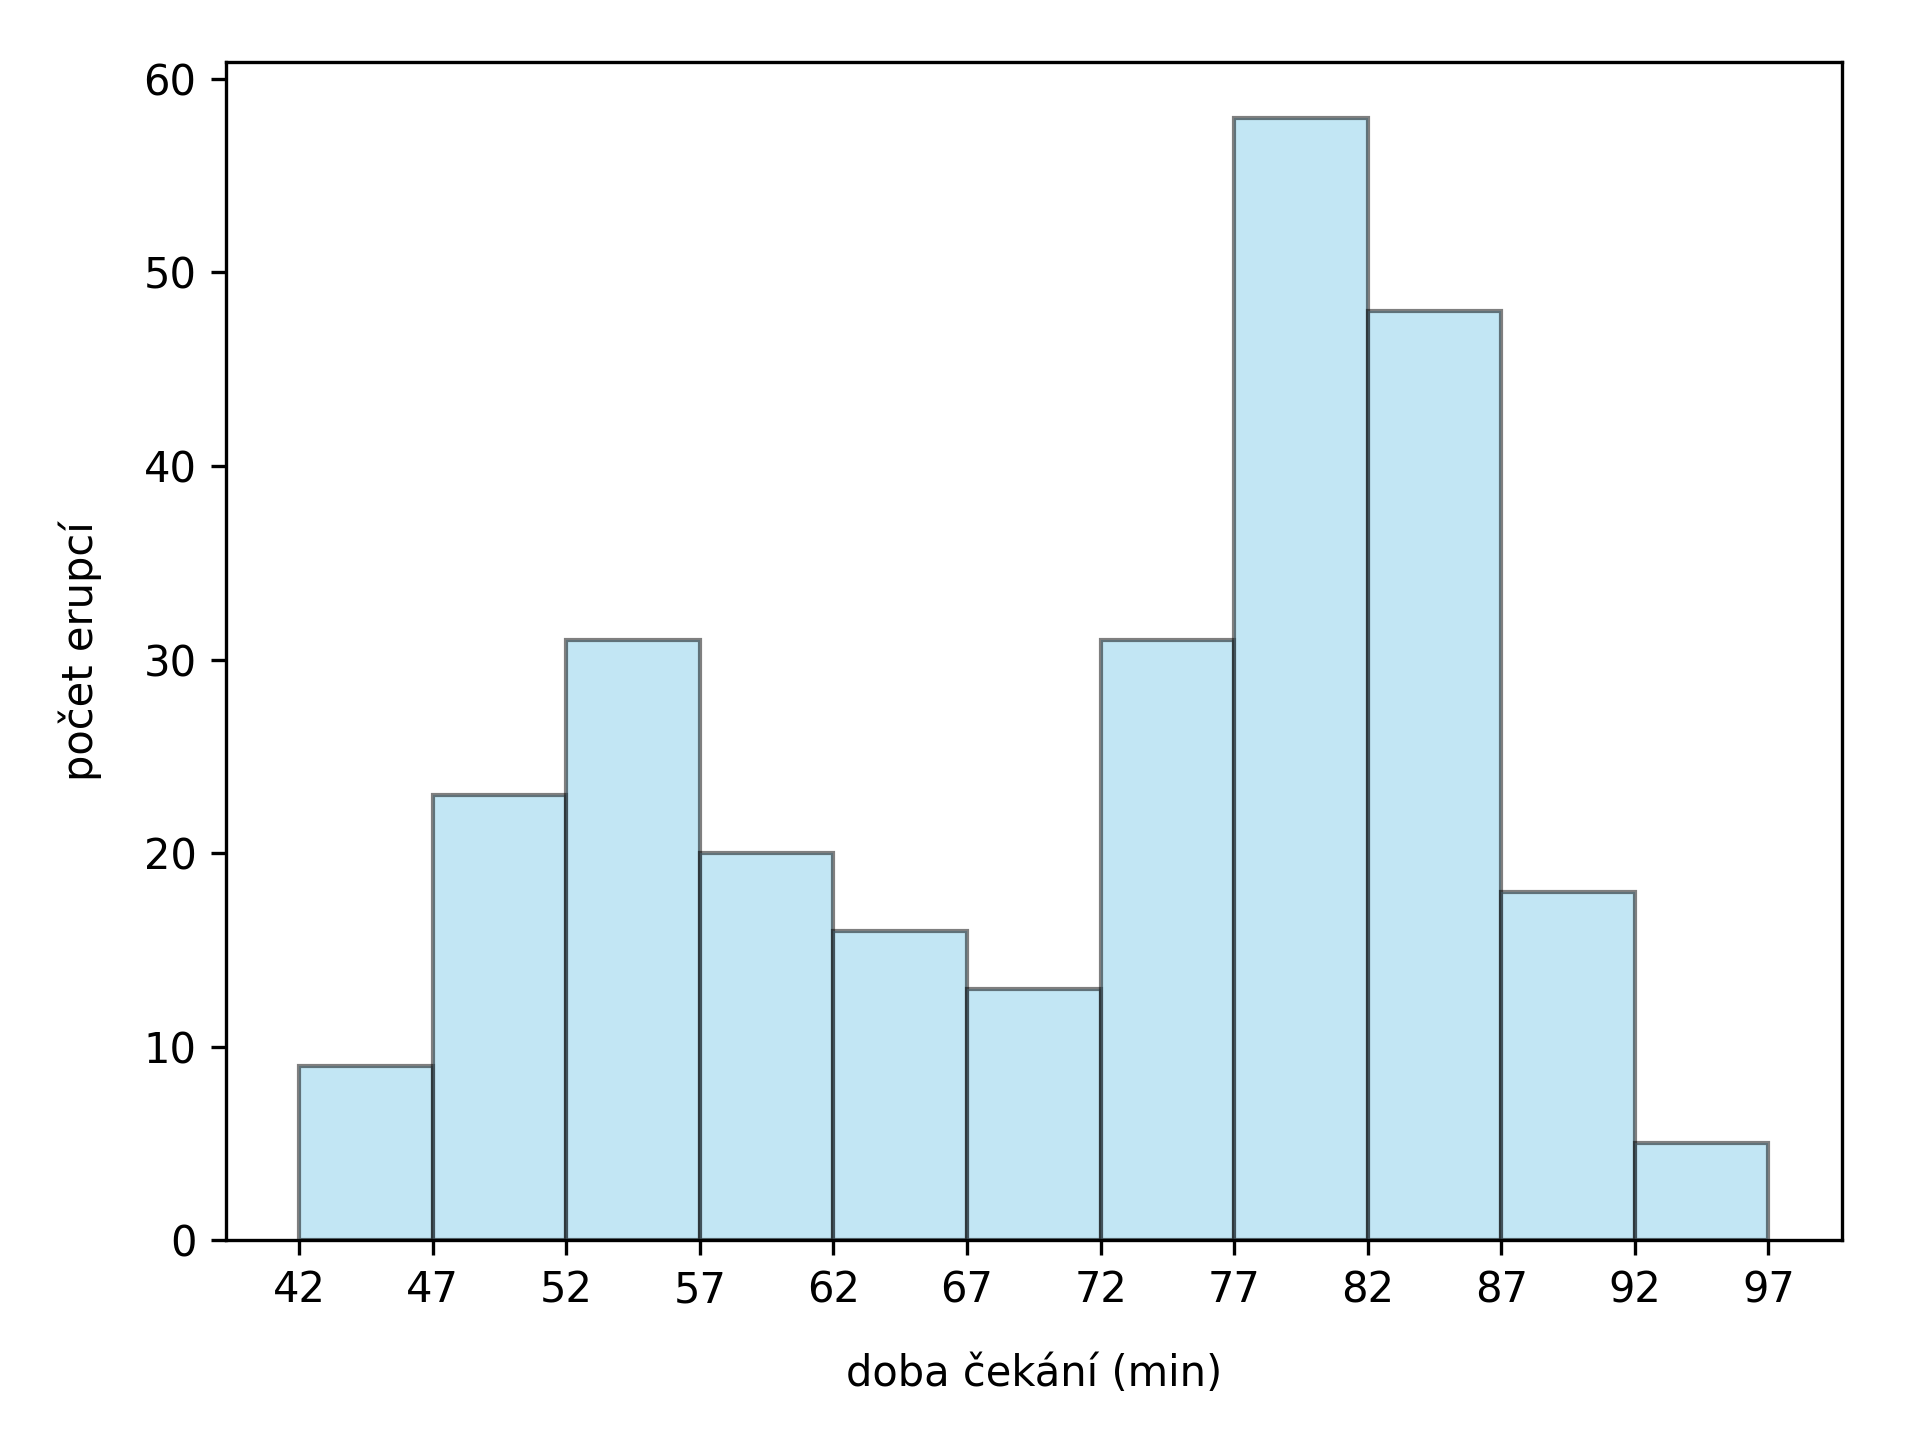
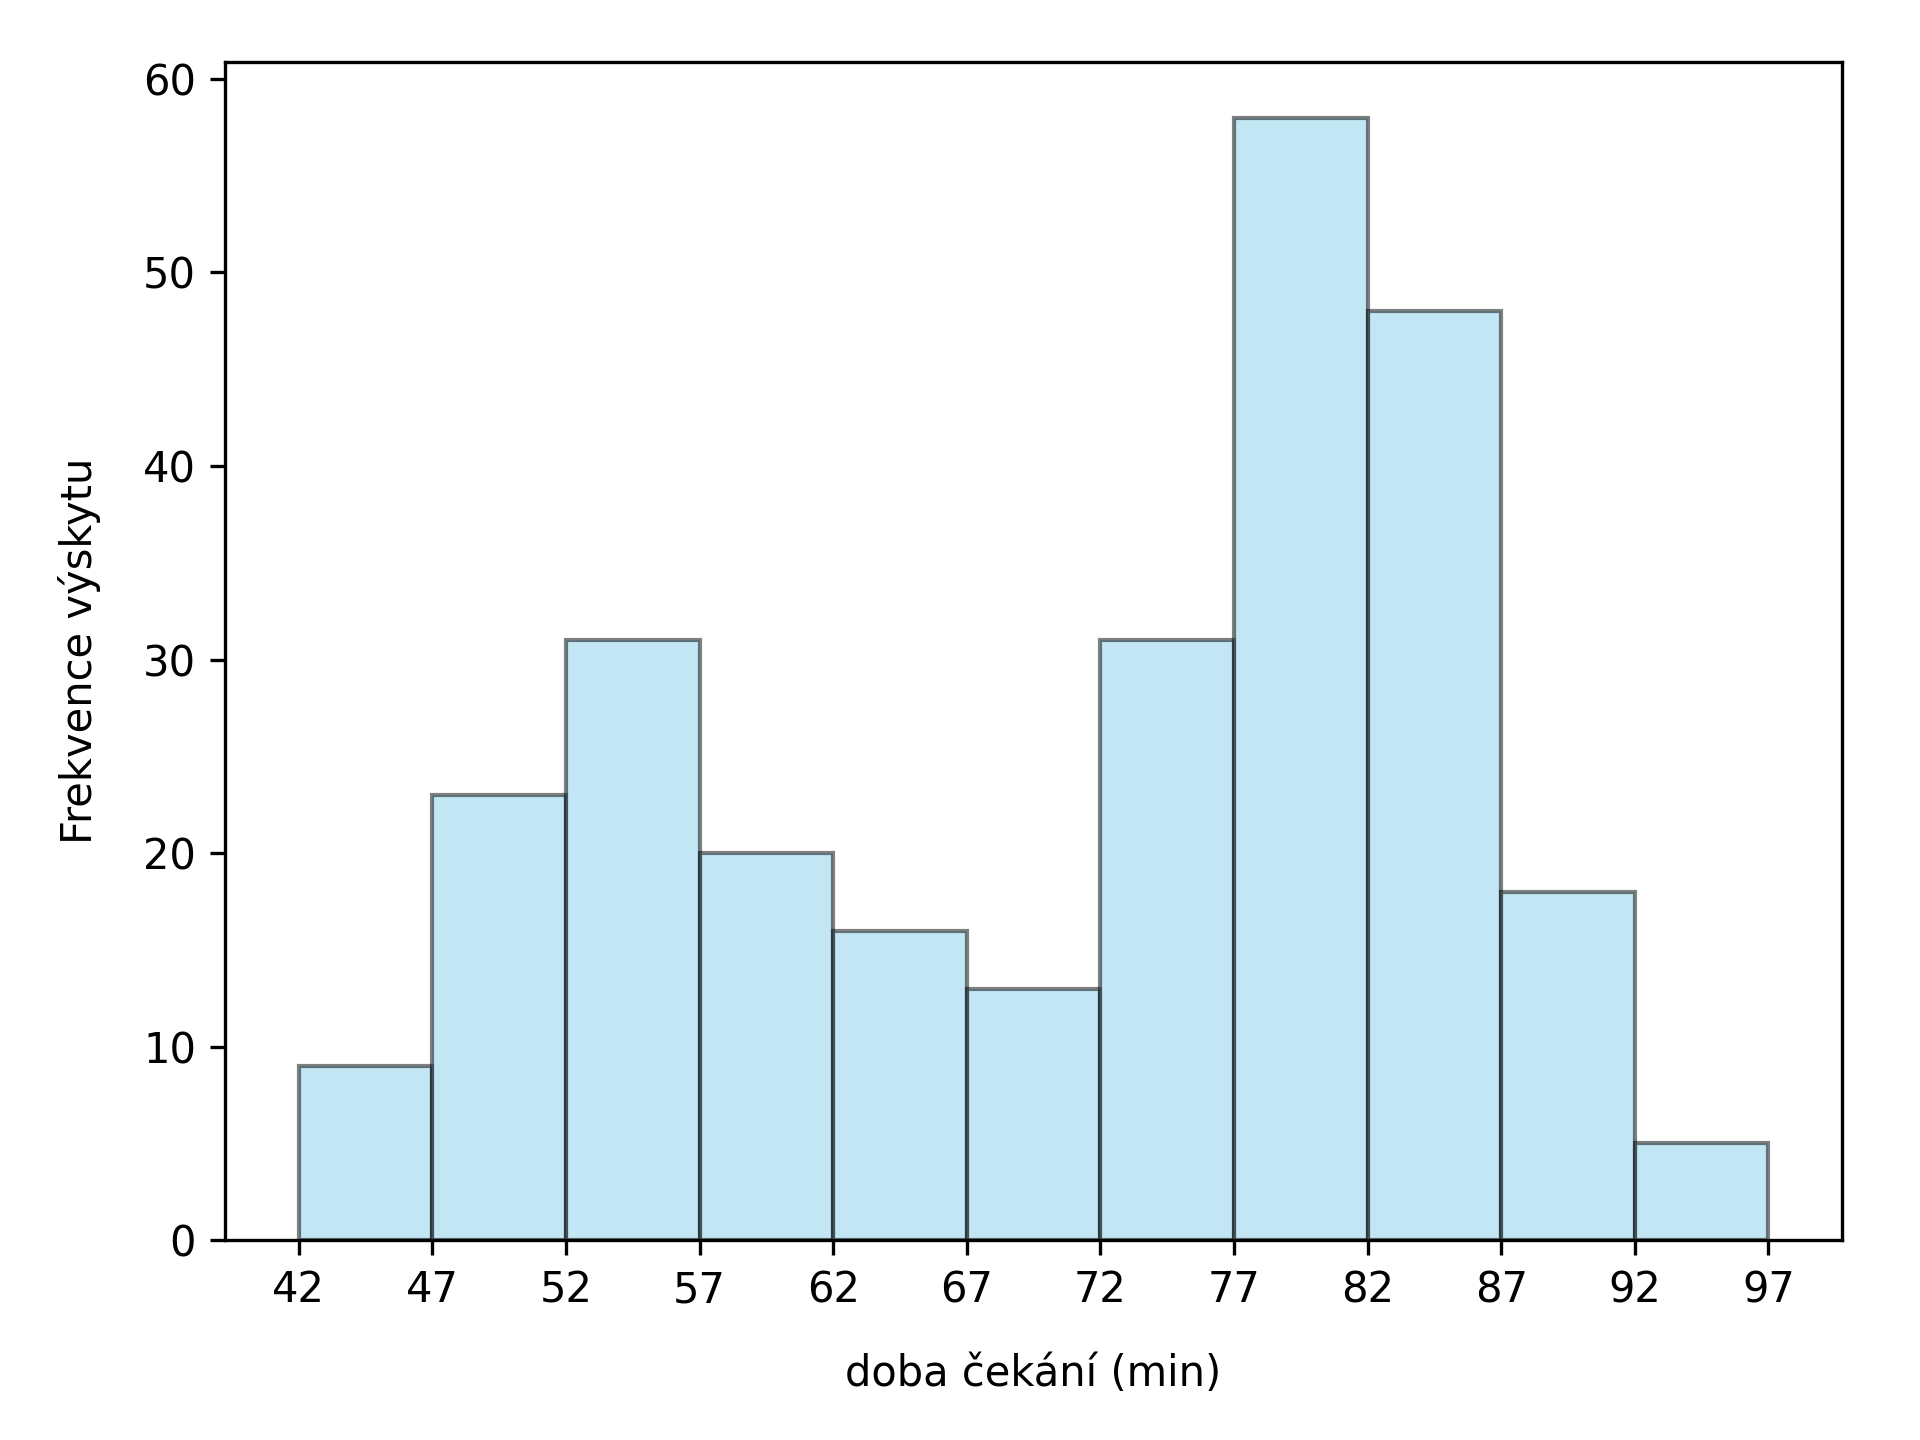
24/09/24 Morning (finished ZIP graph, worked on Normal Mixture Graphs)

Changed region(s): [[0.0312, 0.3125, 0.125, 0.5938], [0.4375, 0.9375, 0.625, 0.9688], [0.0938, 0.4375, 0.125, 0.4688]]

diff --git a/first_chapter_graphs/first_chapter_graphs.py b/first_chapter_graphs/first_chapter_graphs.py
@@ -1,0 +1,99 @@
+import numpy as np
+import matplotlib.pyplot as plt
+from scipy.stats import poisson, norm
+
+# ZIP distribution graph
+
+# parameters of the mixture
+par_dg = 0  # parameter of the degenerate distribution
+w_dg = 4/24  # weight of the degenerate distribution
+
+par_poi = 3  # lambda of the Poisson distribution
+w_poi = 20/24  # weight of the Poisson distribution
+
+x_values = np.arange(0, 12) # integers from 0 to 11
+
+
+# probability mass functions 
+pmf_dg = np.zeros_like(x_values, dtype=float)  # pmf of dg - zeroes
+pmf_dg[par_dg] = 1  # pmf of dg - where the "1" is
+
+pmf_poi = poisson.pmf(x_values, par_poi)  # pmf of Poi
+
+pmf_mix = w_poi * pmf_poi + w_dg * pmf_dg # pmf of mixture
+
+# Plot the PMFs
+plt.figure(dpi=300)
+(markerline, stemlines, baseline) = plt.stem(x_values+0.1, pmf_mix,
+                                             "deepskyblue", 
+                                             markerfmt="deepskyblue", 
+                                             basefmt="")
+plt.setp(baseline, visible=False)
+
+(markerline, stemlines, baseline) = plt.stem(x_values-0.1, pmf_poi, 
+                                             "salmon", 
+                                             markerfmt="salmon", 
+                                             basefmt="")
+plt.setp(baseline, visible=False)
+
+plt.xticks(x_values)
+plt.xlabel("počet hovorů za hodinu")
+plt.ylabel("pravděpodobnostní funkce")
+
+legend_elements = [
+        plt.Line2D([0], [0], color="deepskyblue", lw=2, label="směs rozdělení"),
+        plt.Line2D([0], [0], color="salmon", lw=2, label="Poissonovo rozdělení")]
+plt.legend(handles=legend_elements, fontsize=10, loc = "upper right")
+
+plt.savefig("zip_distribution.png")
+
+
+# Mixture of normal distributions.
+def plot_mixture_of_normals(means, variances, weights, colors, filename,
+                            leg_loc = "upper left",
+                            res=200, x_range=(-10, 10)):
+    """
+
+    """
+    
+    # Convert variances to standard deviations (since norm.pdf uses standard deviation)
+    std_devs = np.sqrt(variances)
+    
+    # Define the range of x values (continuous)
+    x_values = np.linspace(x_range[0], x_range[1], res)
+    
+    # Initialize the mixture PDF to zero
+    pdf_mix = np.zeros_like(x_values)
+    
+    # Plot individual normal distributions and accumulate their weighted PDFs
+    plt.figure(dpi=300)
+    for i in range(len(means)):
+        # PDF of each normal distribution
+        pdf_i = norm.pdf(x_values, means[i], std_devs[i])
+        # Weighted PDF of the current distribution
+        pdf_mix += weights[i] * pdf_i
+        # Plot the current normal distribution
+        plt.plot(x_values, pdf_i,  label=f"rozdělení č. {i+1}",
+                 color = colors[i])
+    
+    # Plot the mixture of normals
+    plt.plot(x_values, pdf_mix, label="směs hustot", color="deepskyblue")
+    
+    # Adding labels and title
+    plt.xlabel("x")
+    plt.ylabel("hustota rozdělení")
+    
+    # Add legend
+    plt.legend(loc=leg_loc, fontsize=10)
+    
+    # Save the plot
+    plt.savefig(filename)
+    
+
+means = [0, 3,]  # List of means
+variances = [1, 1.5]  # List of variances (std^2)
+weights = [0.4, 0.6]  # Weights (should sum to 1)
+colors = ["salmon", "red"]
+
+plot_mixture_of_normals(means, variances, weights, colors = colors,
+                         x_range=(-5, 8), filename="test_mixture.png")

diff --git a/em_algorithm_old_faithful/fns_old_faithful.py b/em_algorithm_old_faithful/fns_old_faithful.py
@@ -5,6 +5,11 @@ from scipy.stats import norm
 import os
 os.chdir('C:/Users/turla/Documents/GitHub/masters-thesis/em_algorithm_old_faithful')
 
+file_path = 'em_old_faithful.csv'  
+data = pd.read_csv(file_path)
+data_waiting = data["waiting"]
+data_eruptions = data["eruptions"]
+
 def e_step(data, mu, sigma, p):
     n_comp, n_data = len(p), len(data)
     zero_vec = np.zeros([n_comp, n_data])
@@ -56,11 +61,40 @@ def m_step(expectation, data, p):
     p_hat = expectation.sum(axis=1)/n_data
     return mu_hat, sigma_hat, p_hat  
 
+def multiple_runs_em(data, no_runs):
+    n_components = 2
+    mu_hat = np.zeros([no_runs, n_components])
+    sigma_hat = np.zeros([no_runs, n_components])
+    p_hat = np.zeros([no_runs, n_components])
+    like = np.zeros(no_runs)
+    for i in range(no_runs):
+        mu_0 = np.random.choice(data, n_components)
+        sd = np.sqrt(np.var(data)) # standard deviation of dataset
+        sigma_0 = np.full(shape=n_components, fill_value=sd)
+        p_0 = np.ones(n_components) / n_components  # n coefficients of the same value
+        psi1 = [mu_0, sigma_0, p_0]
+
+        like_diff, no_iter = 1, 0
+        while(like_diff > 1e-6):
+            no_iter += 1 # iteration count
+            psi2 = m_step(e_step(data, psi1[0], psi1[1], psi1[2]), 
+                        data, psi1[2])
+            l1 = log_lik_mix_norm(data, psi1[0], psi1[1], psi1[2])
+            l2 = log_lik_mix_norm(data, psi2[0], psi2[1], psi2[2])
+            like_diff = abs(l2 - l1)
+            psi1 = [psi2[0], psi2[1], psi2[2]]
+
+        mu_hat[i, :], sigma_hat[i, :], p_hat[i, :] = np.round(psi1, 3)
+        like[i] = np.round(l2, 5)
+    for j in range(no_runs):
+        print(f"mu_hat: {mu_hat[j, :]}, likelihood: {like[j]}")
+
+
 
 def plot_hist_of(data_waiting):
     plt.figure(dpi=300)
     plt.xlabel("doba čekání (min)", labelpad=10)
-    plt.ylabel("počet erupcí", labelpad=10)
+    plt.ylabel("Frekvence výskytu", labelpad=10)
     plt.tight_layout()
     bin_ticks = range(42, 102, 5)
     plt.hist(data_waiting, color='skyblue', edgecolor='black', alpha=0.5, bins=bin_ticks) 
@@ -111,7 +145,6 @@ def visualise(data, mu, sigma, p, n_iter, res, name):
     plt.plot(x_vals, density, linewidth=1, c="red")
    
     plt.savefig(name)
-    plt.close()
-    
+    plt.close()   
 
- 
+multiple_runs_em(data_waiting, 100)

diff --git a/em_algorithm_old_faithful/em_algorithm_old_faithful.py b/em_algorithm_old_faithful/em_algorithm_old_faithful.py
@@ -16,7 +16,7 @@ data_eruptions = data["eruptions"]
 n_components = 2
 
 # Initial parameter values
-mu_0 = [60, 57]#np.random.choice(data_waiting, n_components)
+mu_0 = [70, 70]#np.random.choice(data_waiting, n_components)
 sd = np.sqrt(np.var(data_waiting)) # standard deviation of dataset
 sigma_0 = np.full(shape=n_components, fill_value=sd)
 p_0 = np.ones(n_components) / n_components  # n coefficients of the same value
@@ -46,9 +46,9 @@ while(like_diff > 1e-6):
 
 print(f"Number of iterations: {no_iter}")
 
-plot_hist_of(data_waiting)
-plt.savefig("histogram_old_faithful.png")
-plt.close()
+#plot_hist_of(data_waiting)
+#plt.savefig("histogram_old_faithful.png")
+#plt.close()
 
 
 
